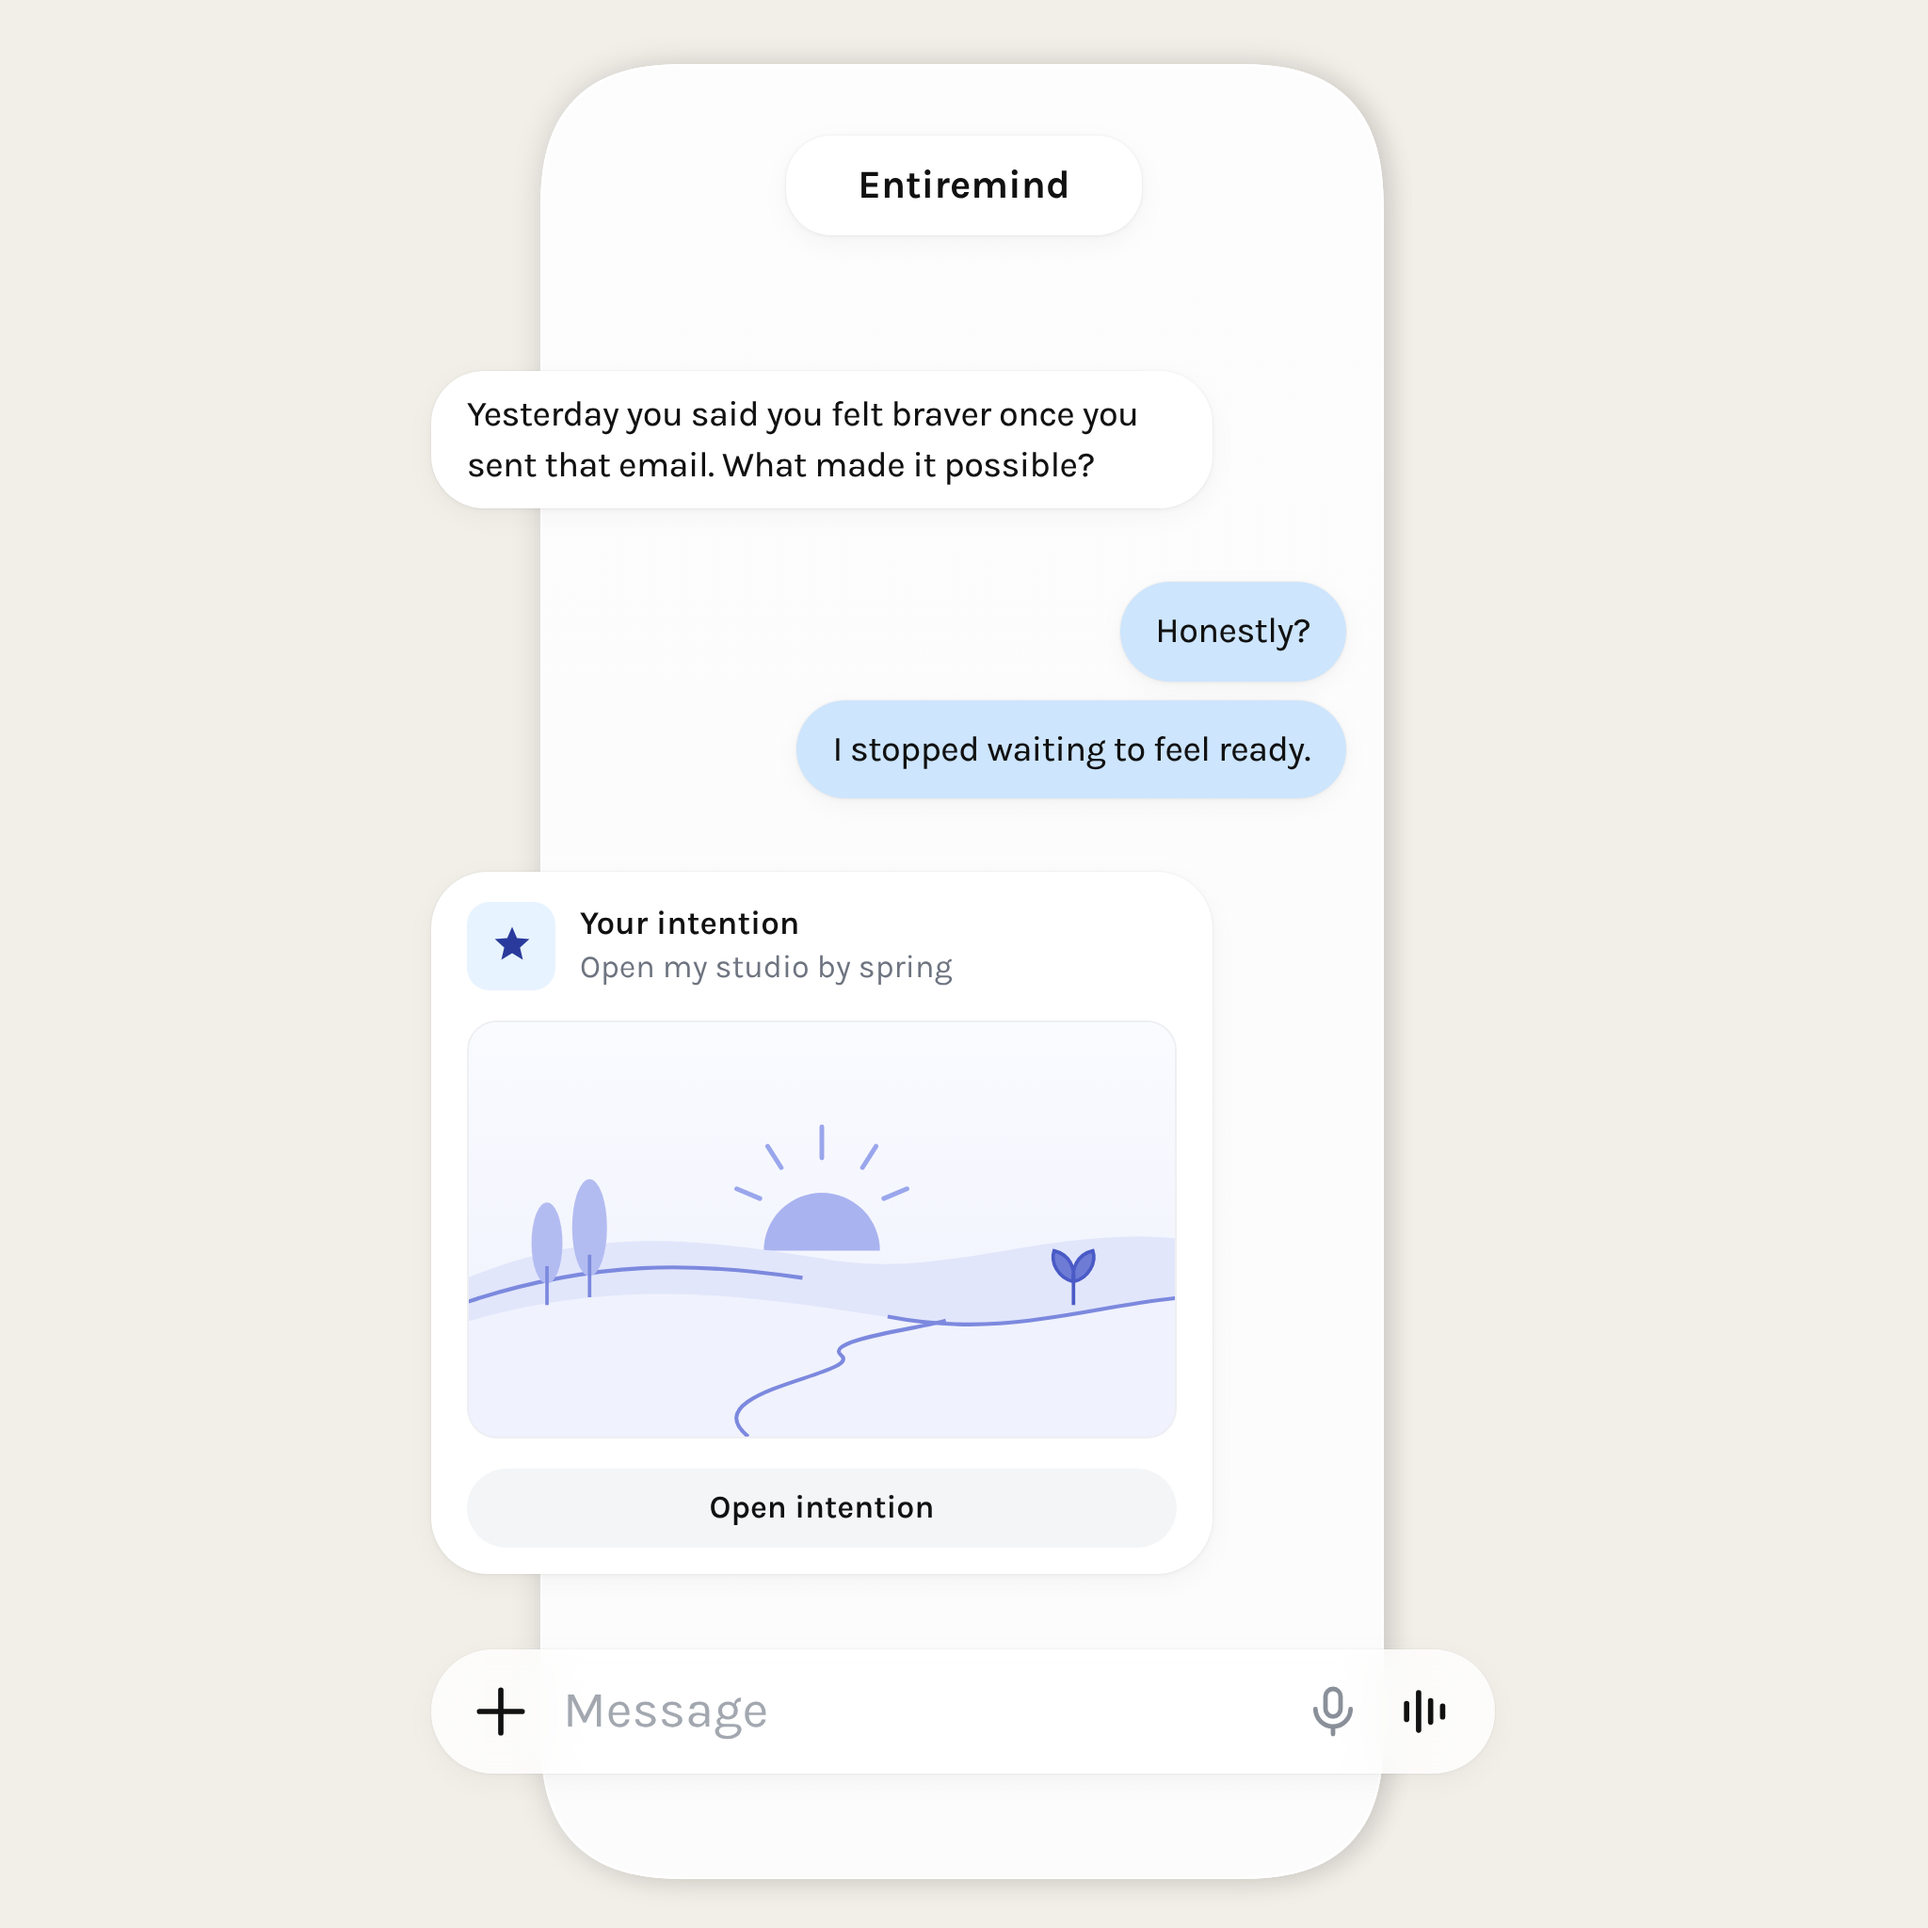
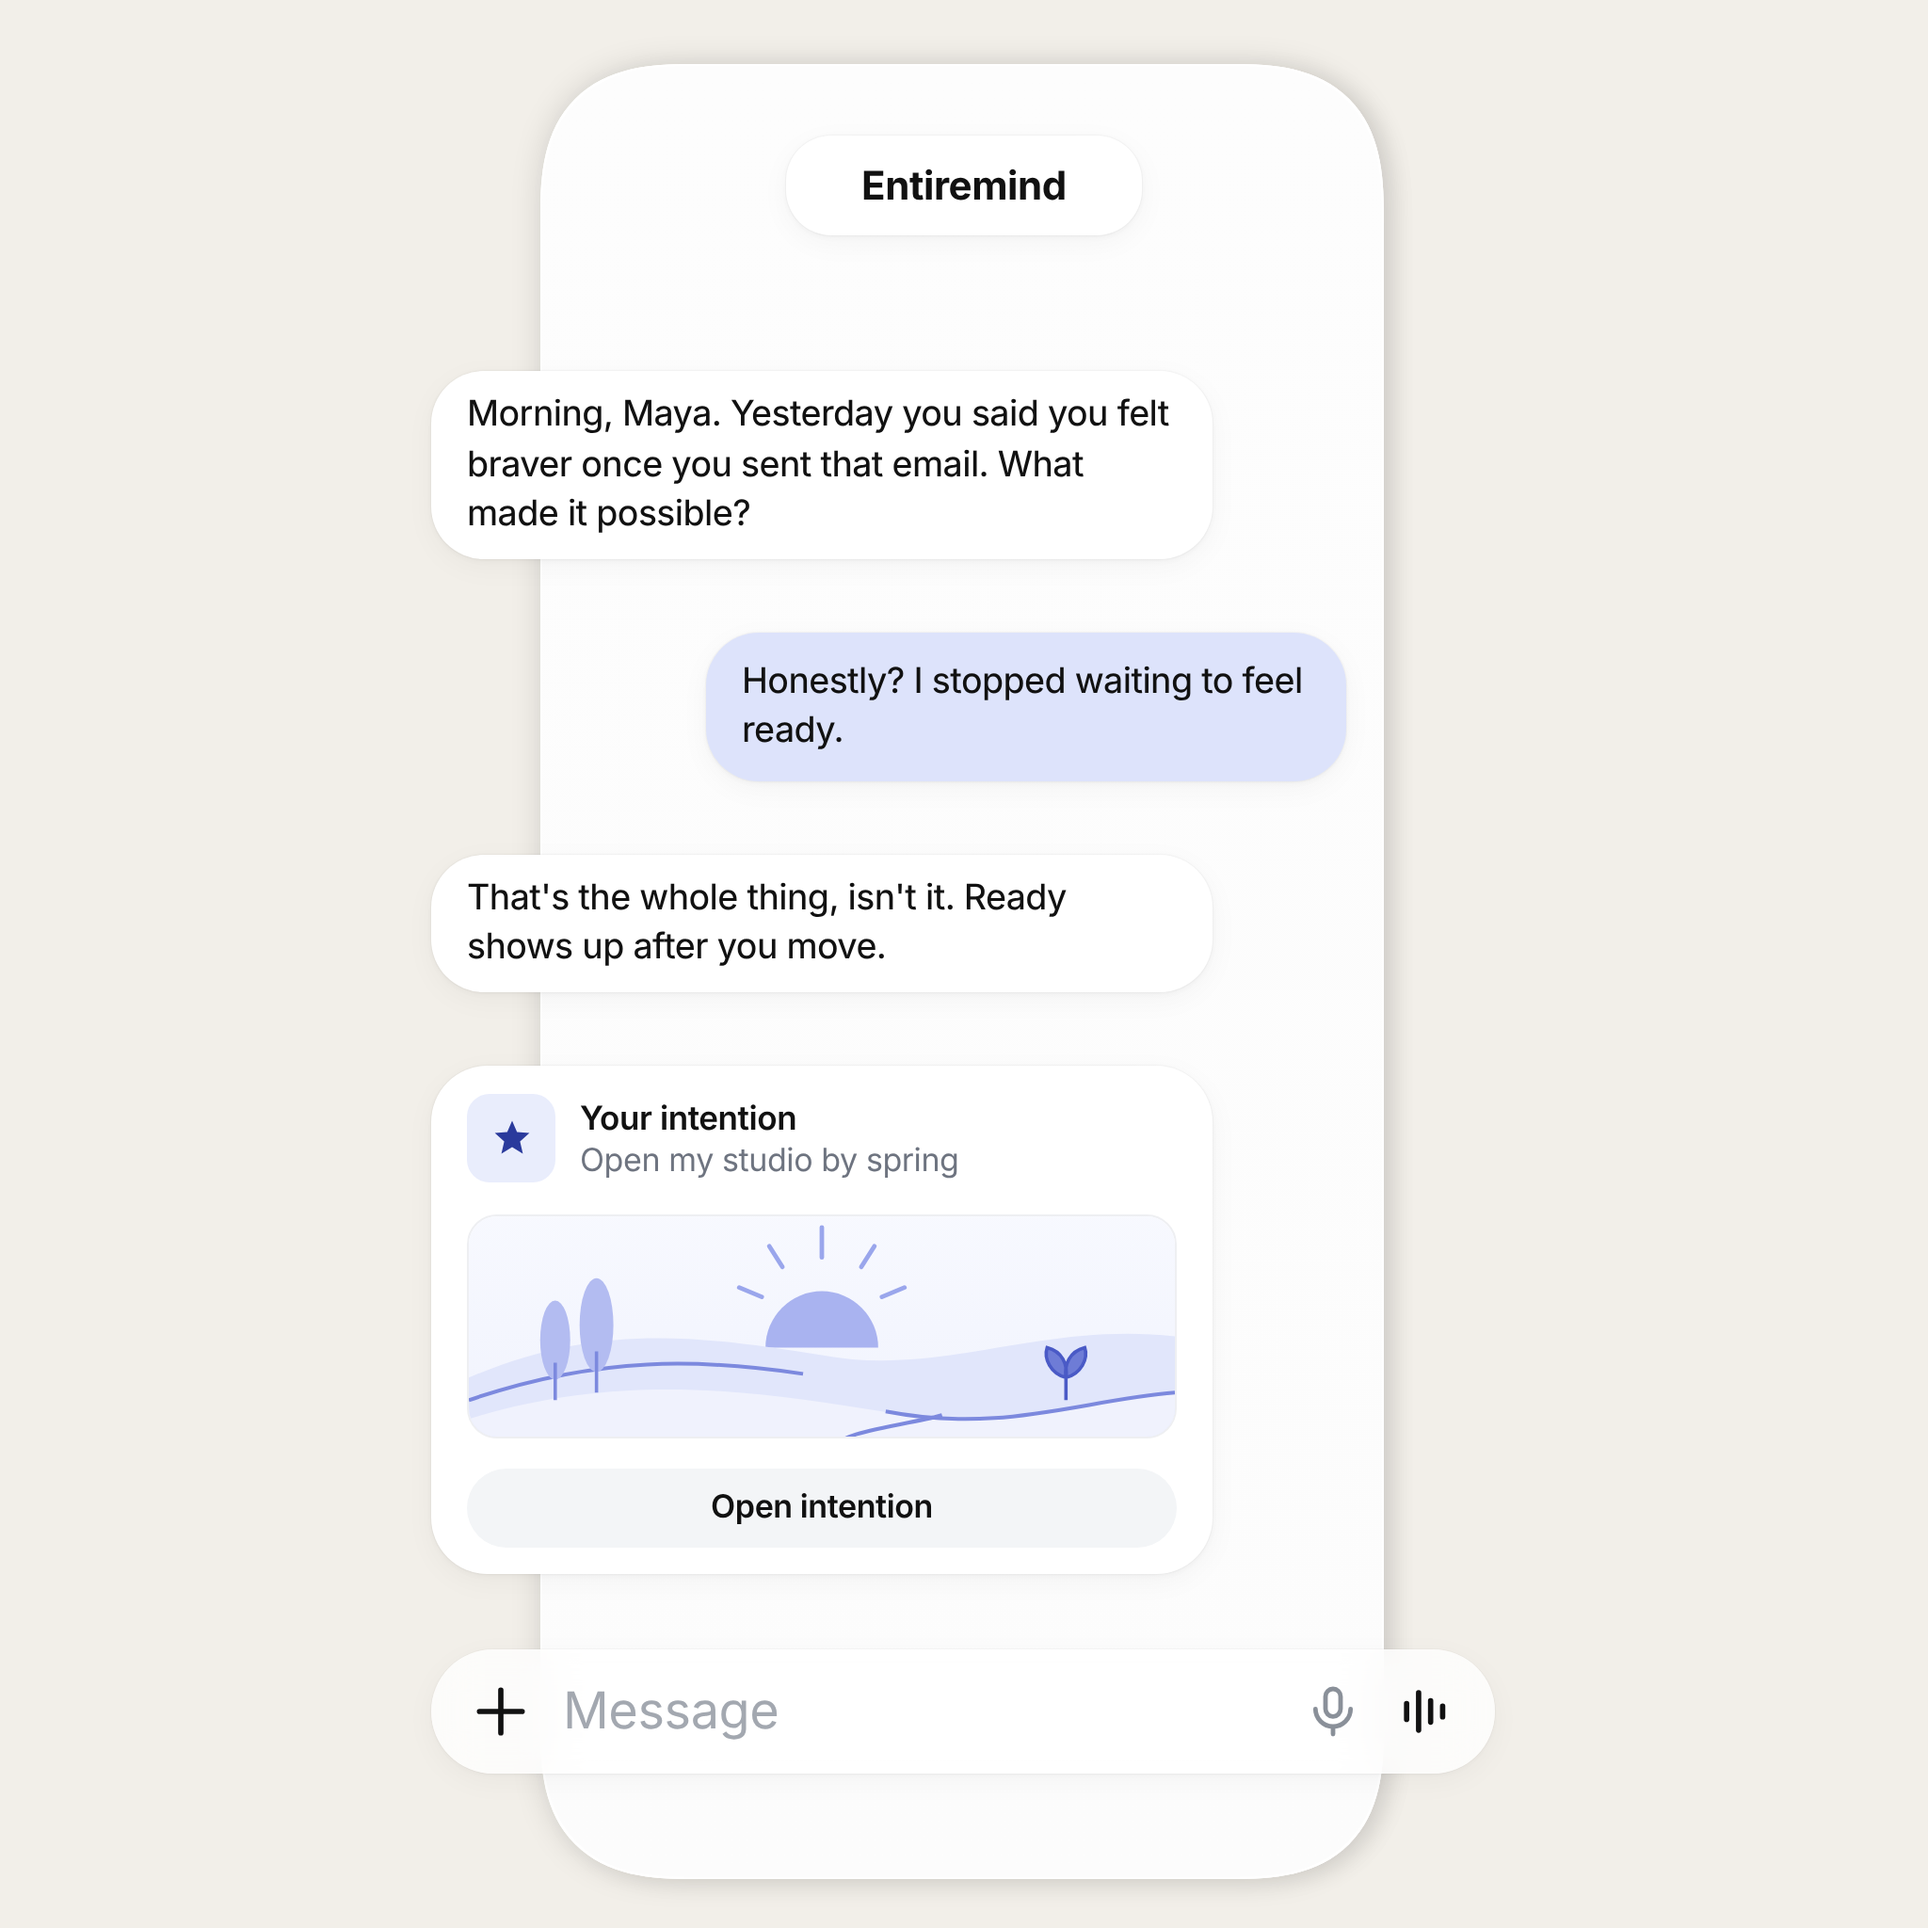
Brand the HeroPhone contents; phone unchanged
Inter + soft cobalt replies by default, original three-message thread.
The thread now ends on a fixed line so longer copy shrinks the card art
instead of sliding the card under the composer. Edge check unchanged.

Claude-Session: https://claude.ai/code/session_01XFR3k6ZrktobPacJJyLqAi

diff --git a/src/components/landing/hero-phone.module.css b/src/components/landing/hero-phone.module.css
@@ -115,6 +115,10 @@
   left: calc(var(--u) * 229);
   top: calc(var(--u) * 197);
   width: calc(var(--u) * 486);
+  /* The thread ends on a fixed line (836u, the reference card's bottom) so
+     the card always clears the composer: longer copy shrinks the card's
+     artwork instead of pushing the card underneath the bar. */
+  height: calc(var(--u) * 639);
   display: flex;
   flex-direction: column;
 }
@@ -155,6 +159,10 @@
 /* ---- Card ----------------------------------------------------------- */
 
 .card {
+  flex: 1;
+  min-height: 0;
+  display: flex;
+  flex-direction: column;
   margin-top: calc(var(--u) * 39);
   width: calc(var(--u) * 415);
   box-sizing: border-box;
@@ -201,8 +209,9 @@
 }
 
 .cardBody {
+  flex: 1;
+  min-height: calc(var(--u) * 96);
   margin-top: calc(var(--u) * 16);
-  height: calc(var(--u) * 222);
   border-radius: calc(var(--u) * 16);
   border: calc(var(--u) * 1) solid #eeeff2;
   overflow: hidden;

diff --git a/src/components/landing/hero-phone-content.tsx b/src/components/landing/hero-phone-content.tsx
@@ -116,15 +116,16 @@ const ReplicaArt = (
 
 export const ENTIREMIND_CONTENT: HeroPhoneContent = {
   name: "Entiremind",
-  // Same rhythm as the reference — one two-line prompt, two short replies —
-  // so the card lands in the same place above the composer.
   bubbles: [
     {
       from: "them",
-      text: "Yesterday you said you felt braver once you sent that email. What made it possible?",
+      text: "Morning, Maya. Yesterday you said you felt braver once you sent that email. What made it possible?",
     },
-    { from: "me", text: "Honestly?" },
-    { from: "me", text: "I stopped waiting to feel ready." },
+    { from: "me", text: "Honestly? I stopped waiting to feel ready." },
+    {
+      from: "them",
+      text: "That's the whole thing, isn't it. Ready shows up after you move.",
+    },
   ],
   card: {
     title: "Your intention",

diff --git a/src/app/preview/hero-phone/page.tsx b/src/app/preview/hero-phone/page.tsx
@@ -59,12 +59,12 @@ export default async function HeroPhonePreview({
     ["transparent", "white", "linen"] as const,
     "white",
   );
-  const font = pick(
-    params.font,
-    ["karla", "inter"] as const,
-    mode === "replica" ? "inter" : "karla",
+  const font = pick(params.font, ["karla", "inter"] as const, "inter");
+  const reply = pick(
+    params.reply,
+    ["sky", "cobalt"] as const,
+    mode === "replica" ? "sky" : "cobalt",
   );
-  const reply = pick(params.reply, ["sky", "cobalt"] as const, "sky");
   const size = Number(params.size) > 0 ? Number(params.size) : 1024;
 
   return (

diff --git a/src/components/landing/hero-phone.tsx b/src/components/landing/hero-phone.tsx
@@ -43,8 +43,8 @@ interface HeroPhoneProps {
 
 export function HeroPhone({
   content,
-  font = "karla",
-  replyTone = "sky",
+  font = "inter",
+  replyTone = "cobalt",
   className,
 }: HeroPhoneProps) {
   const canvasClass = [
